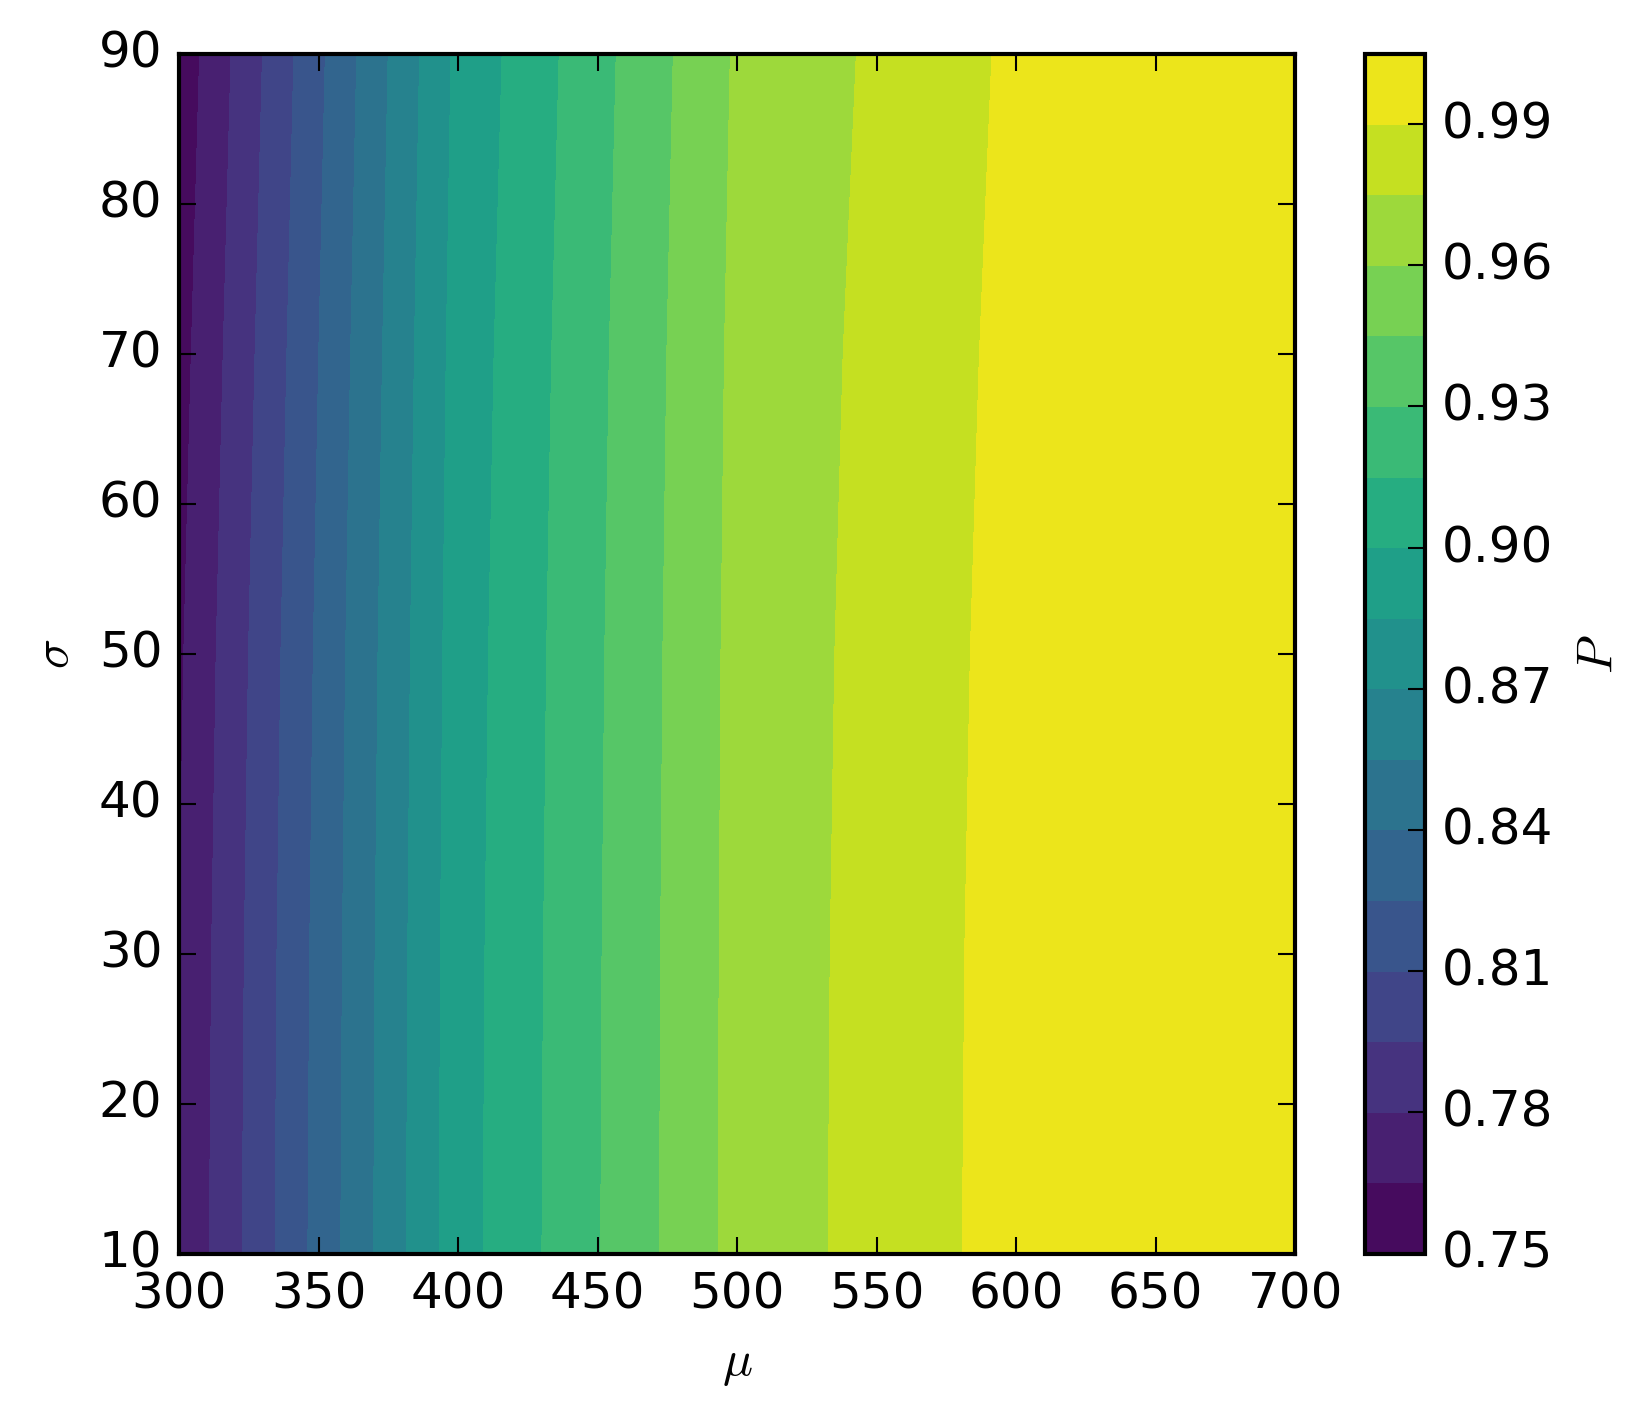
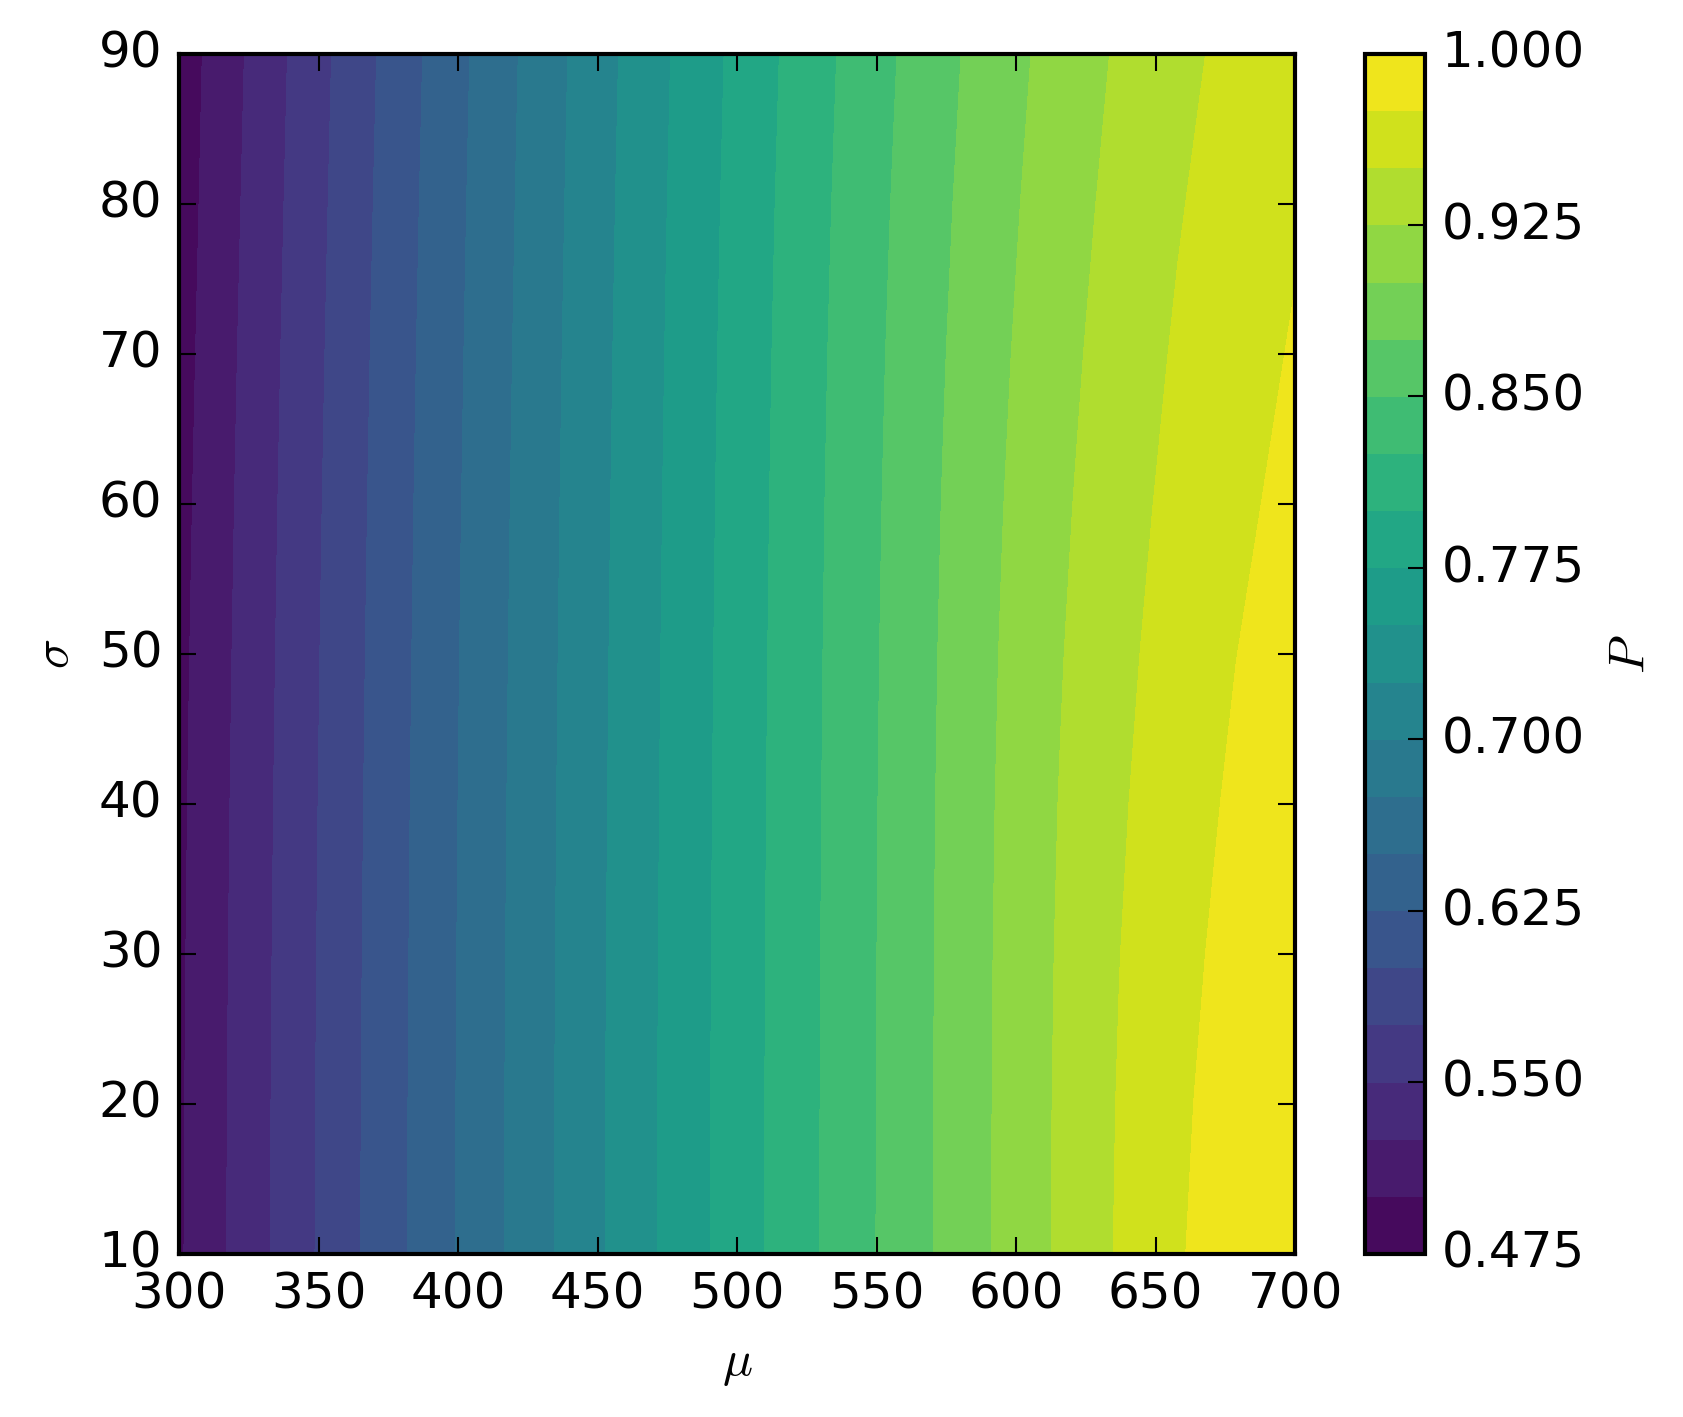
Update but still not perfect

diff --git a/dessn/proofs/efficiency_6/__init__.py b/dessn/proofs/efficiency_6/__init__.py
@@ -41,7 +41,7 @@ time as :math:`S_2` we have:
     \mathcal{L} &= P(\mathbf{\hat{c}_i}, \hat{z}|S_2,\mu,\sigma, Z_i) \\
     &= \frac{P(\mathbf{\hat{c}_i}, \hat{z}, S_2|\mu,\sigma, Z_i)}{P(S_2|\mu,\sigma, Z_i)} \\
     &= \frac{\int dL P(\mathbf{\hat{c}_i}, \hat{z}, S_2, L|\mu,\sigma, Z_i)}{P(S_2|\mu,\sigma, Z_i)} \\
-    &= \frac{\int dL \ P(S_2 | \mathbf{\hat{c}_i}) P(\mathbf{\hat{c}_i}| L \hat{z})
+    &= \frac{\int dL \ P(S_2 | \mathbf{\hat{c}_i}) P(\mathbf{\hat{c}_i}| L \hat{z}, Z_i)
     P(\hat{z}) P(L|\mu,\sigma)}{P(S_2|\mu,\sigma, Z_i)}
 
 Here we also assume flat priors on redshift, and as our
@@ -64,57 +64,104 @@ Which gives us :math:`dL = \hat{z}^2 df`, leading to:
     \mathcal{N}\left(\frac{f}{\hat{z}^2} ; \mu, \sigma\right)}   {P(S_2|\mu,\sigma,Z_i)} \\
 
 We now need to go through the fun process of determining the model efficiency in the
-denominator. Unlike in the previous example, stipulating at least two points
-above a signal to noise of :math:`\alpha` in *any* bands can be trivially broken into
-a cut of :math:`1 - P(S_0|\mu,\sigma,Z_i) - P(S_1|\mu,\sigma,Z_i)` because of the
-combinatorics involved now. However, we can determine :math:`P(S_0|\mu,\sigma,Z_i` for
-each band and combine these to get the correct weights. We consider the case
-where we have :math:`N` observations in each band and looking at band 0 to
-begin with.
+denominator. Due to the presence of multiple bands, this is more complicated than
+the previous example. We consider the case where we have :math:`N` observations
+in each band, and we only have two bands, denoted with a subscript :math:`1` and :math:`2`
+respectively.
 
 .. math::
-    P(S_0|\mu,\sigma,Z_0) &= P(S_0|\mu,\sigma,Z_0)
+    P(S_2 | \mu, \sigma, Z_i) &= \int dL \int dz \int d\mathbf{c_i} \ P(S_2, \mathbf{c_i}, L, z | \mu, \sigma, Z_i) \\
+    &= \int dz \int dL \int d\mathbf{c_1} \int d\mathbf{c_2} \ P(S_2, \mathbf{c_1}, \mathbf{c_2}, L, z | \mu, \sigma, Z_1, Z_2) \\
+    &= \int dz \int dL \int d\mathbf{c_1} \int d\mathbf{c_2} \ P(S_2 | \mathbf{c_1}, \mathbf{c_2}) P( \mathbf{c_1}| L, z, Z_1) P( \mathbf{c_2}| L, z, Z_2) P(L| \mu, \sigma) P(z) \\
 
-To determine this value, we introduce integrals. Lots of integrals. Too many, some would say.
-
-.. math::
-    P(S_0|\mu,\sigma,Z_0) &= \int dL \int dc \int dz\  P(S_0, c, z, L | \mu, \sigma, Z_0) \\
-    &= \int dz\ z^2 P(z) \int df\ P(f z^{-2}|\mu,\sigma) \int dc\
-    P(S_0 | \mathbf{c}) P(\mathbf{c} | L, z, Z_0) \\
-    &= \int dz\ z^2 P(z) \int df\ P(f z^{-2}|\mu,\sigma) \prod_{N} \int_{-\infty}^{\alpha^2} dc\ \mathcal{N}\left(c ; 10^{Z_0/2.5}f, \sqrt{10^{Z_0/2.5}f} \right)
-
-In the last example we showed that
+Again enforcing the flat prior on redshift, and converting from luminosity to flux:
 
 .. math::
-    \int_{-\infty}^{\alpha^2} dc\ \mathcal{N}\left(c ; 10^{Z_0/2.5}f, \sqrt{10^{Z_0/2.5}f} \right)
-    &= \begin{cases}
-    \frac{1}{2} + \frac{1}{2}{\rm erf} \left[ \frac{\alpha^2 - 10^{Z_0/2.5}f}{\sqrt{2f\cdot 10^{Z_0/2.5}}} \right] &
-    \text{ if } \alpha^2 - 10^{Z_0/2.5}f > 0 \\
-    \frac{1}{2} - \frac{1}{2}{\rm erf} \left[ \frac{10^{Z_0/2.5}f - \alpha^2}{\sqrt{2f\cdot 10^{Z_0/2.5}}} \right] &
-    \text{ if } \alpha^2 - 10^{Z_0/2.5}f < 0 \\
+    P(S_2 | \mu, \sigma, Z_i) &= \int dz\, z^2 \int df P(fz^{-2}| \mu, \sigma) \int d\mathbf{c_1} \int d\mathbf{c_2} \ P(S_2 | \mathbf{c_1}, \mathbf{c_2}) P( \mathbf{c_1}| f, Z_1) P( \mathbf{c_2}| f, Z_2) \\
+
+Translating to english, :math:`P(S_2 | \mathbf{c_1}, \mathbf{c_2})` is the probability that
+either of the bands has at least 2 points above a specified signal to noise cut, such that
+the counts is greater than some number :math:`\alpha^2`. This can be inverted to turn
+the *or* condition into an *and*, which is simpler to calculate.
+
+.. math::
+    P(S_2 |  \mathbf{c_1}, \mathbf{c_2}) = 1 - P(\bar{S_2} |  \mathbf{c_1}, \mathbf{c_2})
+
+We can further note that the probability the data does not pass selection cuts is separable
+into the probability band 1 fails *and* band 2 fails.
+
+.. math::
+    P(S_2 | \mathbf{c_1}, \mathbf{c_2}) = 1 - P(\bar{S}_{2,1} |  \mathbf{c_1}) P(\bar{S}_{2,2} | \mathbf{c_2})
+
+We can separate this again: the probability band 1 fails selection is sum of probability that
+zero points meet the signal-to-noise criterion or only one points meets the criterion.
+
+.. math::
+    P(\bar{S}_{2,1} | \mathbf{c_1}) = P(S_{0,1} | \mathbf{c_1}) + P(S_{1,1}|\mathbf{c_1})
+
+Let's continue breaking this down. The probability that we have 0 points above a
+signal-to-noise cut, due to the independence of successive points, can be written as a product.
+
+.. math::
+    P(S_{0,1}|\mathbf{c_1}) = \prod_i P(c_{1,i} < \alpha^2)
+
+We can also see that the probability of only one point being above a signal-to-noise cut is the
+same as can be found in the previous example.
+
+.. math::
+    P(S_{1,1} | \mathbf{c_1}) = \sum_i P(c_{1,i} > \alpha^2) \prod_{j\neq i} P(c_{1,j} < \alpha^2)
+
+Putting these together:
+
+.. math::
+    P(S_2 | \mathbf{c_1}, \mathbf{c_2}) &= 1 - \left[\prod_i P(c_{1,i} < \alpha^2) + \sum_j P(c_{1,j} > \alpha^2) \prod_{k\neq j} P(c_{1,k} < \alpha^2) \right]\\
+    &\quad\quad \left[ \prod_l P(c_{2,l} < \alpha^2) + \sum_m P(c_{2,m} > \alpha^2) \prod_{n\neq m} P(c_{2,n} < \alpha^2)   \right] \\
+    &= 1 -  \left[ \prod_i P(c_{1,i} < \alpha^2) \right] \left[\prod_l P(c_{2,l} < \alpha^2)  \right]-\\
+    &\quad\quad \left[ \prod_i P(c_{1,i} < \alpha^2) \right] \left[ \sum_m P(c_{2,m} > \alpha^2) \prod_{n\neq m} P(c_{2,n} < \alpha^2)   \right] \\
+    &\quad\quad \left[ \sum_j P(c_{1,j} > \alpha^2) \prod_{k\neq j} P(c_{1,k} < \alpha^2) \right] \left[ \prod_l P(c_{2,l} < \alpha^2) \right]  \\
+    &\quad\quad \left[ \sum_j P(c_{1,j} > \alpha^2) \prod_{k\neq j} P(c_{1,k} < \alpha^2) \right] \left[ \sum_m P(c_{2,m} > \alpha^2) \prod_{n\neq m} P(c_{2,n} < \alpha^2)   \right]
+
+What an ugly term to write out! Lets denote these four terms with :math:`t`, such that the
+above equation can be written
+as :math:`P(S_2 | \mathbf{c_1}, \mathbf{c_2}) = 1 - (t_1 + t_2 + t_3 + t_4)`.
+
+To put this back inside our efficiency term, we have
+
+.. math::
+    P(S_2 | \mu, \sigma, Z_i) &= 1 - \int dz\, z^2 \int df P(fz^{-2}| \mu, \sigma) \int d\mathbf{c_0} \int d\mathbf{c_1} \ (t_1 + t_2 + t_3 + t_4) P( \mathbf{c_1}| f, Z_1) P( \mathbf{c_2}| f, Z_2) \\
+
+Now let's break this down by :math:`t`.
+
+.. math::
+    x_1 &\equiv \int d\mathbf{c_0} \int d\mathbf{c_1} t_1 P( \mathbf{c_1}| f, Z_1) P( \mathbf{c_2}| f, Z_2) \\
+    &=  \int d\mathbf{c_1} \int d\mathbf{c_2} \left[ \prod_i P(c_{1,i} < \alpha^2) \right] \left[\prod_l P(c_{2,l} < \alpha^2)  \right] P( \mathbf{c_1}| f, Z_1) P( \mathbf{c_2}| f, Z_2) \\
+    &=  \int d\mathbf{c_1} \left[ \prod_i P(c_{1,i} < \alpha^2) \right] P( \mathbf{c_1}| f, Z_1) \int d\mathbf{c_2}  \left[\prod_l P(c_{2,l} < \alpha^2)  \right]  P( \mathbf{c_2}| f, Z_2) \\
+    &= \left[ g_{-} (f, Z_1, \alpha)  g_{-} (f, Z_2, \alpha) \right]^N,
+
+where :math:`g_{-}` is defined by
+
+.. math::
+    g_{-}(f, Z, \alpha) &= \begin{cases}
+    \frac{1}{2} + \frac{1}{2}{\rm erf} \left[ \frac{\alpha^2 - 10^{Z/2.5}f}{\sqrt{2f\cdot 10^{Z/2.5}}} \right] &
+    \text{ if } \alpha^2 - 10^{Z/2.5}f > 0 \\
+    \frac{1}{2} - \frac{1}{2}{\rm erf} \left[ \frac{10^{Z/2.5}f - \alpha^2}{\sqrt{2f\cdot 10^{Z/2.5}}} \right] &
+    \text{ if } \alpha^2 - 10^{Z/2.5}f < 0 \\
     \end{cases} \\
-    &= g_{-}(f,Z_0,\alpha)
 
-Substituting this in, along with a flat distribution (of width 1) on redshift and
-the normal distribution on luminosity, we get
+For a full derivation of the above, consult previous examples.
 
-.. math::
-    P(S_0|\mu,\sigma,Z_0) = \int dz\ z^2 \int df\ \mathcal{N}(f z^{-2};\mu,\sigma)
-    \left[g_{-}(f,Z_0,\alpha)\right]^N
-
-From the previous example, we can also see that
+We can also sub in the results for :math:`t_2,\ t_3,\ t_4`, as will get
 
 .. math::
-    P(S_1|\mu,\sigma,Z_0) &= \int dz\ z^2  \int df \ \mathcal{N}(fz^{-2};\mu,\sigma)
-    N  g_{+}(f,\alpha, Z_0) \left[g_{-}(f,\alpha, Z_0)\right]^{N-1}\\
+    t_1 & \rightarrow x_1 \equiv \left[ g_{-} (f, Z_1, \alpha)  g_{-} (f, Z_2, \alpha) \right]^N \\
+    t_2 & \rightarrow x_2 \equiv N g_{+}(f, Z_2, \alpha) \left[g_{-}(f, Z_1, \alpha)\right]^N \left[ g_{-}(f, Z_2, \alpha) \right]^{N-1} \\
+    t_3 & \rightarrow x_3 \equiv N g_{+}(f, Z_1, \alpha) \left[g_{-}(f, Z_2, \alpha)\right]^N \left[ g_{-}(f, Z_1, \alpha) \right]^{N-1} \\
+    t_4 & \rightarrow x_4 \equiv N^2 g_{+}(f, Z_1, \alpha) g_{+}(f, Z_2, \alpha) \left[g_{-}(f, Z_1, \alpha) g_{-}(f, Z_2, \alpha) \right]^{N-1}
 
-In order to combine these into the actual model efficiency, we need to permutate them.
-For two bands, this is given by
+These functions are calculable, and from them we can determine the efficiency.
 
 .. math::
-    P(S_2|\mu,\sigma,Z_0) = 1 -
-    \sum_{i\in \lbrace0,1\rbrace} \sum_{j\in \lbrace 0, 1 \rbrace}
-    P(S_i|\mu,\sigma,Z_0) P(S_j|\mu,\sigma,Z_1)
+    P(S_2 | \mu, \sigma, Z_i) &= 1 - \int dz\, z^2 \int df \, \mathcal{N}(fz^{-2}; \mu, \sigma) \left[ x_1 + x_2 + x_3 + x_4 \right]
 
 
 The model PGM is constructed as follows:

diff --git a/dessn/proofs/efficiency_6/efficiency_model_6.py b/dessn/proofs/efficiency_6/efficiency_model_6.py
@@ -11,7 +11,7 @@ import os
 import logging
 from scipy.special import erf
 from scipy.integrate import simps
-from scipy.interpolate import RegularGridInterpolator
+from scipy.interpolate import RegularGridInterpolator, interp1d
 
 
 class ObservedCounts(ParameterObserved):
@@ -170,56 +170,88 @@ class BiasCorrection(Edge):
         self.vs = None
 
         self.zs = np.linspace(0.5, 1.5, 50)
-        self.cs = np.linspace(10, 3000, 1000)
+        self.cs = np.linspace(1, 3000, 1000)
+        self.fs = np.linspace(10, 2500, 1000)
+
         bound = self.cs - self.threshold
         ltz = (bound > 0) * 2.0 - 1.0
         self.gplus = ltz * 0.5 * erf((np.abs(bound)) / (np.sqrt(2 * self.cs))) + 0.5
         self.gminus = 1 - self.gplus
         self.gminusN = np.power(self.gminus, number)
         self.gminusNmo = np.power(self.gminus, number - 1)
-
         self.N = number
+
+        self.x1 = self.gminusN
+        self.x2 = self.N * self.gplus * self.gminusNmo
+
         self.interp = self.get_data()
 
-    def _get_s0(self, mu, sigma, Z):
-        fs = self.cs / np.power(10, Z / 2.5)
-        zvals = np.zeros(self.zs.shape)
-        for i, z in enumerate(self.zs):
-            lum = fs * (z * z)
-            diff = lum - mu
-            gauss = (1 / (np.sqrt(2 * np.pi) * sigma)) * np.exp(-(diff * diff) / (2 * sigma * sigma))
-            zvals[i] = simps(gauss * self.gminusN, x=fs)
-        return simps(self.zs * self.zs * zvals, x=self.zs)
+    # def _get_s0(self, mu, sigma, Z):
+    #     fs = self.cs / np.power(10, Z / 2.5)
+    #     zvals = np.zeros(self.zs.shape)
+    #     for i, z in enumerate(self.zs):
+    #         lum = fs * (z * z)
+    #         diff = lum - mu
+    #         gauss = (1 / (np.sqrt(2 * np.pi) * sigma)) * np.exp(-(diff * diff) / (2 * sigma * sigma))
+    #         zvals[i] = simps(gauss * self.gminusN, x=fs)
+    #     return simps(self.zs * self.zs * zvals, x=self.zs)
+    #
+    # def _get_s1(self, mu, sigma, Z):
+    #     fs = self.cs / np.power(10, Z / 2.5)
+    #     zvals = np.zeros(self.zs.shape)
+    #     for i, z in enumerate(self.zs):
+    #         diff = fs * (z * z) - mu
+    #         gauss = (1 / (np.sqrt(2 * np.pi) * sigma)) * np.exp(-(diff * diff) / (2 * sigma * sigma))
+    #         integral = simps(gauss * self.N * self.gplus * self.gminusNmo, x=fs)
+    #         # if mu == 500 and sigma == 50 and i in [0, self.zs.size - 1]:
+    #         #     # print(fs, lum, diff)
+    #         #     plt.plot(fs, 20 * gauss, lw=3)
+    #         #     print("Area is ", z * z * simps(gauss, x=fs), " at redshift %f " % z)
+    #         #     plt.plot(fs, self.N * self.gplus * self.gminusNmo)
+    #         #     plt.title("%f %f %f" % (mu, sigma, z))
+    #         #     plt.show()
+    #         zvals[i] = integral
+    #     if mu == 500 and sigma == 50:
+    #         plt.plot(self.zs, zvals)
+    #         plt.plot(self.zs, self.zs * self.zs * zvals)
+    #         plt.show()
+    #         print("VAL IS ", simps(self.zs * self.zs * zvals, x=self.zs))
+    #     return simps(self.zs * self.zs * zvals, x=self.zs)
 
-    def _get_s1(self, mu, sigma, Z):
-        fs = self.cs / np.power(10, Z / 2.5)
+    def _get_val(self, mu, sigma, z1, z2):
         zvals = np.zeros(self.zs.shape)
+        f1 = self.cs / np.power(10, z1 / 2.5)
+        f2 = self.cs / np.power(10, z2 / 2.5)
+
+        # print(f1, self.fs)
+        vals11 = interp1d(f1, self.x1)(self.fs)
+        vals12 = interp1d(f1, self.x2)(self.fs)
+        vals21 = interp1d(f2, self.x1)(self.fs)
+        vals22 = interp1d(f2, self.x2)(self.fs)
+
+        summed = vals11 * vals21 + vals11 * vals22 + vals12 * vals21 + vals12 * vals22
+
         for i, z in enumerate(self.zs):
-            diff = fs * (z * z) - mu
+            diff = self.fs * z * z - mu
             gauss = (1 / (np.sqrt(2 * np.pi) * sigma)) * np.exp(-(diff * diff) / (2 * sigma * sigma))
-            integral = simps(gauss * self.N * self.gplus * self.gminusNmo, x=fs)
-            # if mu == 500 and sigma == 50 and i in [0, self.zs.size - 1]:
-            #     # print(fs, lum, diff)
-            #     plt.plot(fs, 20 * gauss, lw=3)
-            #     print("Area is ", z * z * simps(gauss, x=fs), " at redshift %f " % z)
-            #     plt.plot(fs, self.N * self.gplus * self.gminusNmo)
-            #     plt.title("%f %f %f" % (mu, sigma, z))
-            #     plt.show()
+            integral = simps(gauss * summed, x=self.fs)
             zvals[i] = integral
-        if mu == 500 and sigma == 50:
-            plt.plot(self.zs, zvals)
-            plt.plot(self.zs, self.zs * self.zs * zvals)
-            plt.show()
-            print("VAL IS ", simps(self.zs * self.zs * zvals, x=self.zs))
+        #     if mu == 500.0 and sigma == 50.0 and (i == 0 or i == self.zs.size - 1):
+        #         plt.plot(self.fs, summed)
+        #         plt.plot(self.fs, gauss * 100, lw=2)
+        #         plt.show()
+        # if mu == 500.0 and sigma == 50.0:
+        #     plt.plot(self.zs, zvals)
+        #     plt.show()
         return simps(self.zs * self.zs * zvals, x=self.zs)
 
     def get_data(self):
-        self.mus = np.linspace(300, 700, 5)
-        self.sigmas = np.linspace(10, 90, 5)
-        self.z0s = np.linspace(0, 0.01, 1)
-        self.z1s = np.linspace(0, 0.01, 1)
+        self.mus = np.linspace(300, 700, 20)
+        self.sigmas = np.linspace(10, 90, 9)
+        self.z0s = np.linspace(-0.01, 0.01, 7)
+        self.z1s = np.linspace(-0.01, 0.01, 7)
 
-        if False and os.path.exists(self.filename):
+        if os.path.exists(self.filename):
             self.vs = np.load(self.filename)
         else:
             self.vs = np.zeros((self.mus.size, self.sigmas.size, self.z0s.size, self.z1s.size))
@@ -229,14 +261,8 @@ class BiasCorrection(Edge):
                     for k, z0 in enumerate(self.z0s):
                         for l, z1 in enumerate(self.z1s):
                             # Please kill me
-                            s0_z0 = self._get_s0(m, s, z0)
-                            s1_z0 = self._get_s1(m, s, z0)
-                            s0_z1 = self._get_s0(m, s, z1)
-                            s1_z1 = self._get_s1(m, s, z1)
-
-                            res = 1 - (s0_z0 * s0_z1)# - (s0_z0 * s1_z1) - (s1_z0 * s0_z1) - (s1_z0 * s1_z1)
+                            res = 1 - self._get_val(m, s, z0, z1)
                             self.vs[i, j, k, l] = res
-                            print(m, s, z0, z1, res, " :: ", s0_z0, s0_z1, s1_z0, s1_z1)
 
             np.save(self.filename, self.vs)
         return RegularGridInterpolator((self.mus, self.sigmas, self.z0s, self.z1s), self.vs,
@@ -287,7 +313,7 @@ class EfficiencyModelCorrected(EfficiencyModelUncorrected):
         self.finalise()
 
 
-def get_data(seed=5, n=4000):
+def get_data(seed=5, n=400):
     np.random.seed(seed=seed+5)
     num_obs = 2
     mean = 500.0
@@ -360,7 +386,6 @@ if __name__ == "__main__":
     # pgm_file = os.path.abspath(dir_name + "/output/pgm.png")
     # fig = model_un.get_pgm(pgm_file)
     plot_weights(dir_name)
-    exit()
     c = ChainConsumer()
     v = Viewer([[100, 300], [0, 70]], parameters=[r"$\mu$", r"$\sigma$"], truth=[200, 40])
     n = 1
@@ -381,10 +406,10 @@ if __name__ == "__main__":
                                               zeros, name="Uncorrected%d" % i)
         model_un.fit(sampler, chain_consumer=c)
 
-        # model_cor = EfficiencyModelCorrected(call[mask], zall[mask], calibration, zeros,
-        #                                      threshold, num_obs,
-        #                                      dir_name + "/output", name="Corrected%d" % i)
-        # model_cor.fit(sampler, chain_consumer=c)
+        model_cor = EfficiencyModelCorrected(call[mask], zall[mask], calibration, zeros,
+                                             threshold, num_obs,
+                                             dir_name + "/output", name="Corrected%d" % i)
+        model_cor.fit(sampler, chain_consumer=c)
 
     c.configure_bar(shade=True)
     c.configure_general(bins=1.0, colours=colours)
